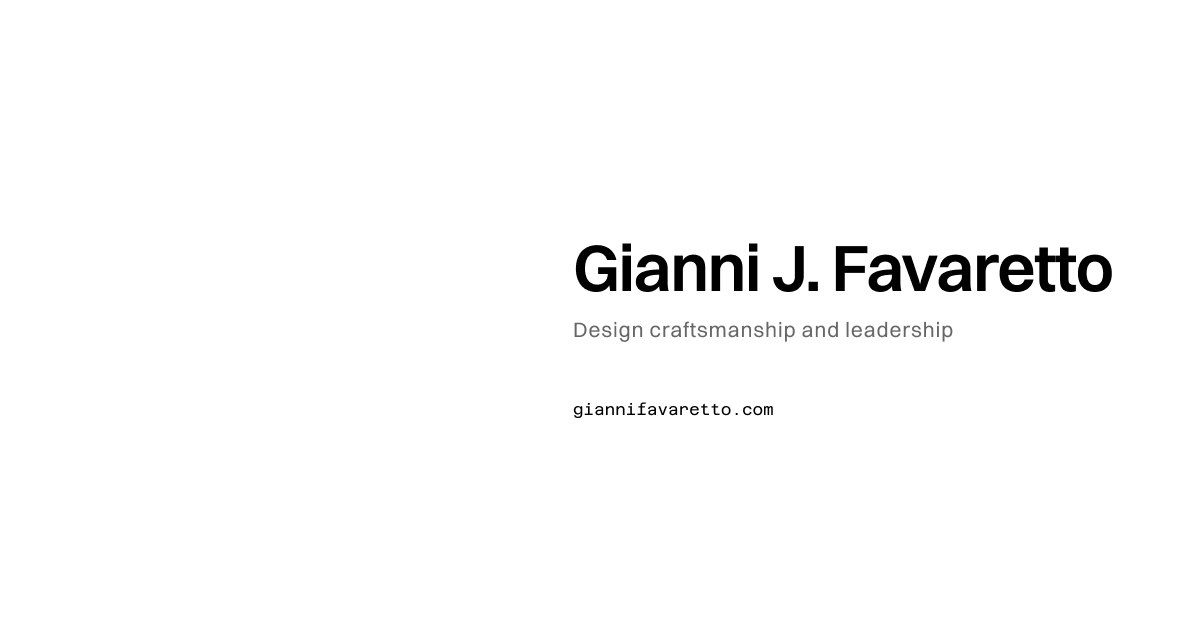
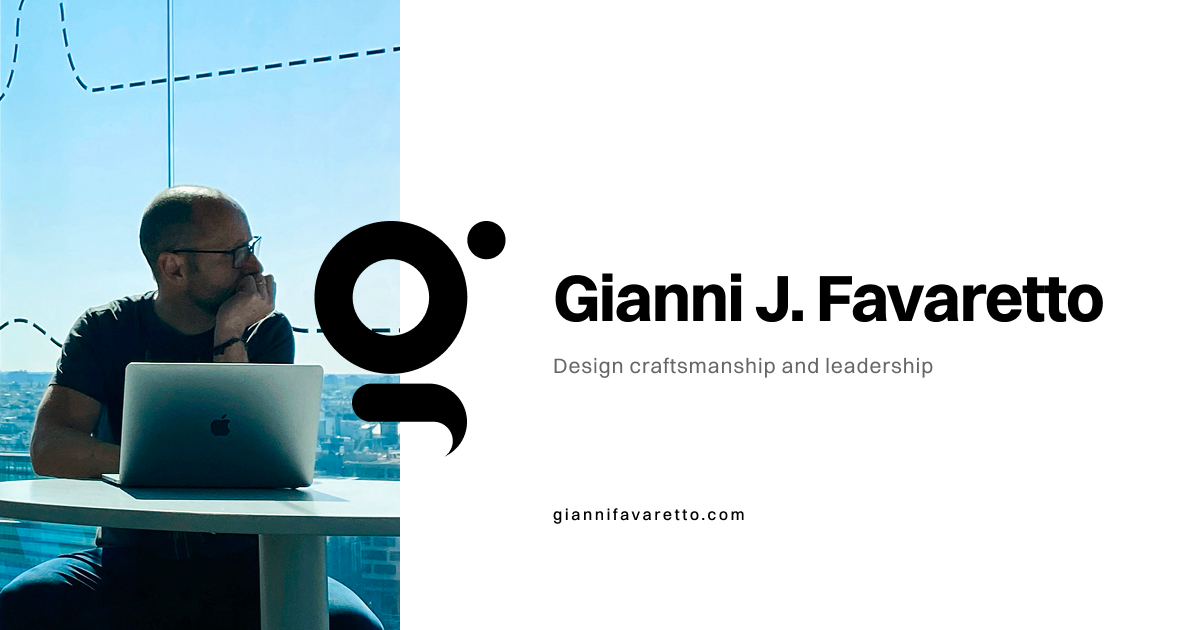
improvements 08/08/25

diff --git a/src/components/sections/WorkHistory/index.tsx b/src/components/sections/WorkHistory/index.tsx
@@ -281,7 +281,7 @@ const WorkExperienceEntry = memo(({
         {/* Work experience header */}
         <header className="space-y-8">
           <h3 
-            className="font-heading font-semibold text-5xl heading-normal leading-13 max-w-lg lg:-mt-1.5"
+            className="font-heading font-bold text-5xl heading-normal leading-13 max-w-lg lg:-mt-1.5"
             id={`work-${experience.id}`}
           >
             {experience.title}
@@ -304,20 +304,20 @@ const WorkExperienceEntry = memo(({
           <h4 id={`responsibilities-${experience.id}`} className="sr-only">
             Key Responsibilities at {experience.company}
           </h4>
-          <div className="max-w-4xl">
+          <div className="max-w-2xl">
             <ul 
-              className="space-y-1.5 grid grid-cols-2 md:grid-cols-3 gap-6 md:gap-10"
+              className="space-y-1.5 grid grid-cols-2 md:grid-cols-3 gap-6 md:gap-8"
               role="list"
               aria-label={`Key achievements and responsibilities at ${experience.company}`}
             >
               {experience.keyResponsibilities.map((responsibility, index) => (
                 <li
                   key={index}
-                  className="flex items-start gap-3 text-base font-copy text-muted-foreground p-4"
+                  className="flex items-start gap-3 text-xs font-copy text-muted-foreground"
                   role="listitem"
                 >
                   <span 
-                    className="size-2 rounded-full bg-primary mt-2 flex-shrink-0" 
+                    className="size-2 rounded-full bg-primary mt-1 flex-shrink-0" 
                     aria-hidden="true"
                   />
                   <span>{responsibility}</span>

diff --git a/src/components/logo/LogoGf.tsx b/src/components/logo/LogoGf.tsx
@@ -20,20 +20,8 @@ export const LogoGf = ({
       fill="none"
       xmlns="http://www.w3.org/2000/svg"
     >
-      <path 
-        d="M69.6279 394.339C54.1502 404.974 44 422.801 44 443C44 475.585 70.4152 502 103 502H356V502.037C419.783 503.629 471 555.833 471 620C471 667.933 442.419 709.19 401.37 727.661C416.849 717.027 427 699.199 427 679C427 647.421 402.191 621.637 371 620.075V620H118C52.8304 620 0 567.17 0 502C0 454.067 28.5797 412.81 69.6279 394.339Z" 
-        fill="black"
-      />
-      <circle 
-        cx="531" 
-        cy="59" 
-        r="59" 
-        fill="black"
-      />
-      <path 
-        d="M236 0C366.339 0 472 105.661 472 236C472 366.339 366.339 472 236 472C105.661 472 0 366.339 0 236C0 105.661 105.661 0 236 0ZM236 118C170.83 118 118 170.83 118 236C118 301.17 170.83 354 236 354C301.17 354 354 301.17 354 236C354 170.83 301.17 118 236 118Z" 
-        fill="black"
-      />
+      <path d="M356 502.037C419.783 503.629 471 555.833 471 620C471 667.933 442.419 709.19 401.37 727.661C416.849 717.027 427 699.199 427 679C427 647.421 402.191 621.637 371 620.075V620H174V619.99C141.876 619.456 116 593.251 116 561C116 528.749 141.876 502.543 174 502.009V502H356V502.037ZM236 0C366.339 0 472 105.661 472 236C472 366.339 366.339 472 236 472C105.661 472 0 366.339 0 236C0 105.661 105.661 0 236 0ZM236 118C170.83 118 118 170.83 118 236C118 301.17 170.83 354 236 354C301.17 354 354 301.17 354 236C354 170.83 301.17 118 236 118ZM531 0C563.585 0 590 26.4152 590 59C590 91.5848 563.585 118 531 118C498.415 118 472 91.5848 472 59C472 26.4152 498.415 0 531 0Z" fill="black" />
     </svg>
+
   );
 };

diff --git a/src/components/sections/Hero.tsx b/src/components/sections/Hero.tsx
@@ -102,9 +102,9 @@ TextCell.displayName = 'TextCell';
 
 // Memoized logo section
 const LogoSection = memo(() => (
-  <div className="mb-12 px-6 lg:px-0">
+  <div className="mb-6 lg:mb-12 px-6 lg:px-0">
     <LogoGf 
-      className="w-40 lg:w-48 xl:w-64 h-auto mx-auto sm:ml-0" 
+      className="w-32 lg:w-48 xl:w-56 h-auto" 
       aria-label="Gianni Favaretto professional logo"
     />
   </div>
@@ -114,10 +114,10 @@ LogoSection.displayName = 'LogoSection';
 
 // Memoized badge section
 const BadgeSection = memo(() => (
-  <div className="flex flex-wrap gap-4 mb-6 text-xs text-muted-foreground px-6 lg:px-0">
+  <div className="flex flex-wrap gap-4 mb-4 text-xs text-muted-foreground px-6 lg:px-0">
     <div className="flex items-center gap-2 font-mono" role="text">
       <Tag size={16} aria-hidden="true" />
-      <span>From craftsmanship to Leadership.</span>
+      <span>Craftsmanship + Leadership.</span>
     </div>
   </div>
 ));
@@ -130,10 +130,9 @@ const ContentSection = memo(() => (
     {/* Main heading with proper hierarchy */}
     <h1 
       id="hero-heading"
-      className="font-heading font-semibold text-5xl md:text-6xl heading-tight mb-8 xl:mb-8 px-6 lg:px-0"
+      className="font-heading font-bold text-5xl md:text-6xl heading-tight text-foreground mb-8 xl:mb-8 px-6 lg:px-0"
     >
-      <span className="text-foreground">Design+</span>{" "}
-      <span className="text-neutral-600">for what&apos;s now—and next.</span>
+      Design+ for what&apos;s now—and next.
     </h1>
 
     {/* Main description with proper semantic structure */}

diff --git a/src/components/sections/WorkHistory/data.ts b/src/components/sections/WorkHistory/data.ts
@@ -41,7 +41,7 @@ export interface GridItem {
       duration: "Jan 2025 - Today",
       startDate: "2025-01",
       endDate: "current",
-      title: "From proof-of-concept to product.",
+      title: "Execution from proof-of-concept to product.",
       description: "I led the creation of JustScore end-to-end—from brand and UX to a polished, production-ready UI. The goal? A performance management platform that's simple, actionable, and genuinely motivating. I shaped not just the product, but the business: defining the model, pricing, and go-to-market. On the engineering side, I partnered closely with developers to keep the codebase scalable, performant, and clean. I also built reusable UI components to ensure design integrity carried through to production. \nAlong the way, I've been supported by my daughter—now growing into a confident co-founder, learning fast, and making decisions of her own. It's been part mentorship, part adventure.",
       keyResponsibilities: [
         "Bootstrapped the business to learn fast and hands-on.",

diff --git a/src/components/sections/Profile/index.tsx b/src/components/sections/Profile/index.tsx
@@ -252,7 +252,7 @@ const HeroSection = memo(({ profile }: { profile: PersonalProfile }) => (
 
       {/* Main heading with proper structure */}
       <h1 
-        className="font-heading font-semibold text-5xl leading-13 heading-tight mb-6"
+        className="font-heading font-bold text-5xl leading-13 heading-tight mb-6"
         id="profile-heading"
       >
         {formatTextWithLineBreaks(profile.name)}

diff --git a/src/lib/fonts.ts b/src/lib/fonts.ts
@@ -19,6 +19,11 @@ export const switzer = localFont({
       weight: '600',
       style: 'normal',
     },
+    {
+      path: '../../public/fonts/Switzer-Bold.woff2',
+      weight: '700',
+      style: 'normal',
+    },
   ],
   variable: '--font-switzer',
   display: 'swap',
